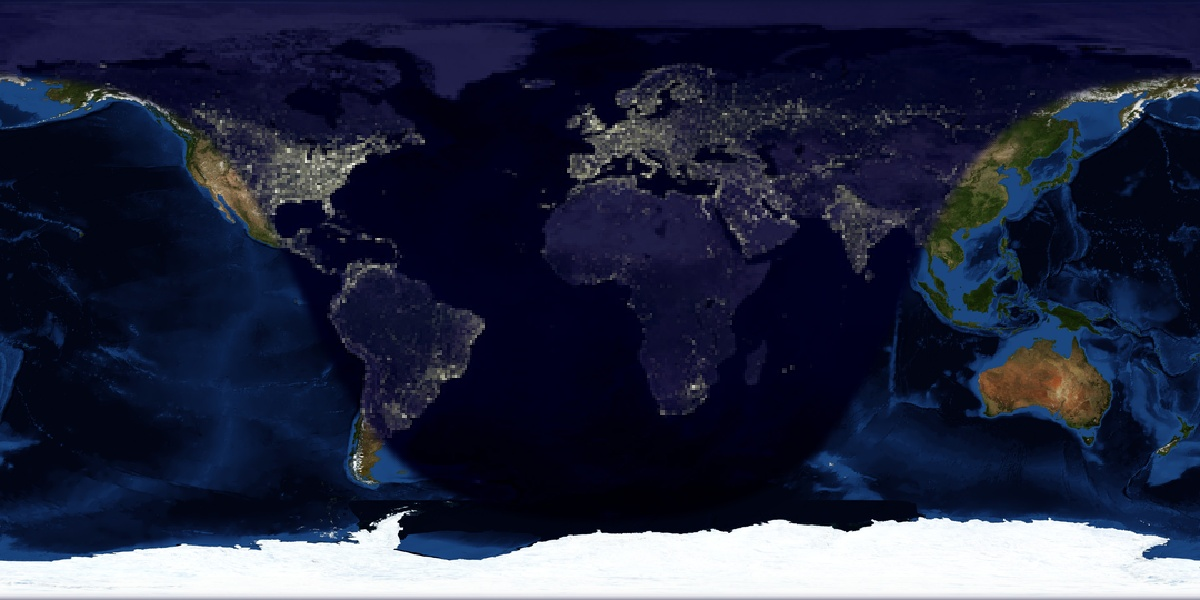
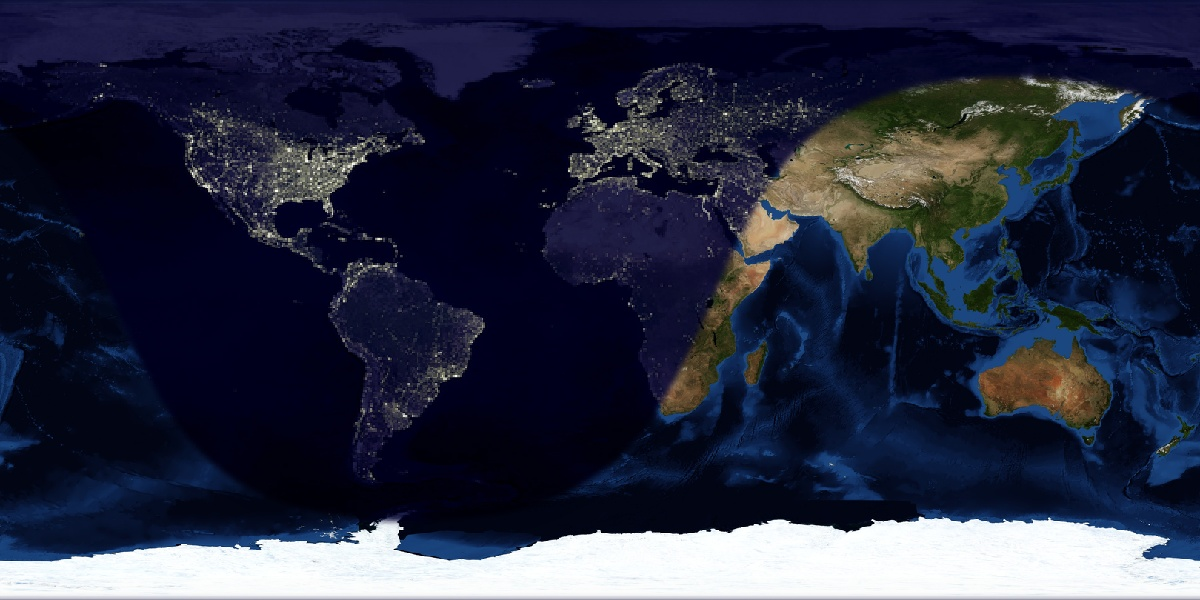
Adding GSFC TDRS Stuff!

diff --git a/Pi/GUI.py b/Pi/GUI.py
@@ -1072,7 +1072,13 @@ class Settings_Screen(Screen, EventDispatcher):
     pass
 
 class Orbit_Screen(Screen, EventDispatcher):
-    pass
+    signalcolor = ObjectProperty([1, 1, 1])
+
+class Orbit_Pass(Screen, EventDispatcher):
+    signalcolor = ObjectProperty([1, 1, 1])
+
+class Orbit_Data(Screen, EventDispatcher):
+    signalcolor = ObjectProperty([1, 1, 1])
 
 class ISS_Screen(Screen, EventDispatcher):
     signalcolor = ObjectProperty([1, 1, 1])
@@ -1165,6 +1171,8 @@ class MainApp(App):
         self.eclss_screen = ECLSS_Screen(name = 'eclss')
         self.control_screen = ManualControlScreen(name = 'manualcontrol')
         self.orbit_screen = Orbit_Screen(name = 'orbit')
+        self.orbit_pass = Orbit_Pass(name = 'orbit_pass')
+        self.orbit_data = Orbit_Data(name = 'orbit_data')
         self.fakeorbit_screen = FakeOrbitScreen(name = 'fakeorbit')
         self.eps_screen = EPS_Screen(name = 'eps')
         self.ct_screen = CT_Screen(name = 'ct')
@@ -1184,7 +1192,10 @@ class MainApp(App):
         self.eva_pictures = EVA_Pictures(name='eva_pictures')
 
         #Add all new telemetry screens to this list, this is used for the signal status icon and telemetry value colors
-        ScreenList = ['tcs_screen', 'eps_screen', 'iss_screen', 'eclss_screen', 'ct_screen', 'ct_sasa_screen', 'ct_sgant_screen', 'ct_uhf_screen', 'ct_camera_screen', 'gnc_screen', 'orbit_screen', 'us_eva', 'rs_eva', 'eva_main', 'mimic_screen', 'mss_mt_screen']
+        ScreenList = ['tcs_screen', 'eps_screen', 'iss_screen', 'eclss_screen', 
+                    'ct_screen', 'ct_sasa_screen', 'ct_sgant_screen', 'ct_uhf_screen', 
+                    'ct_camera_screen', 'gnc_screen', 'orbit_screen', 'us_eva', 'rs_eva', 
+                    'eva_main', 'mimic_screen', 'mss_mt_screen','orbit_pass','orbit_data']
 
         root = MainScreenManager(transition=SwapTransition())
         root.add_widget(self.main_screen)
@@ -1192,6 +1203,8 @@ class MainApp(App):
         root.add_widget(self.mimic_screen)
         root.add_widget(self.fakeorbit_screen)
         root.add_widget(self.orbit_screen)
+        root.add_widget(self.orbit_pass)
+        root.add_widget(self.orbit_data)
         root.add_widget(self.iss_screen)
         root.add_widget(self.eclss_screen)
         root.add_widget(self.eps_screen)
@@ -1222,7 +1235,7 @@ class MainApp(App):
         Clock.schedule_once(self.checkCrew, 30)
         Clock.schedule_once(self.checkBlogforEVA, 30)
         Clock.schedule_once(self.getTLE, 15) #uncomment when internet works again
-        Clock.schedule_once(self.TDRSupdate, 10) #uncomment when internet works again
+        Clock.schedule_once(self.TDRSupdate, 30) #uncomment when internet works again
         
         Clock.schedule_interval(self.getTLE, 300)
         Clock.schedule_interval(self.TDRSupdate, 600)
@@ -1230,7 +1243,7 @@ class MainApp(App):
         Clock.schedule_interval(self.check_serial, 1)
         
         #schedule the orbitmap to update with shadow every 5 mins
-        Clock.schedule_interval(self.updateNightShade, 30)
+        Clock.schedule_interval(self.updateNightShade, 120)
         Clock.schedule_interval(self.updateOrbitMap, 10)
         return root
 
@@ -1871,8 +1884,8 @@ class MainApp(App):
             normalizedY = self.orbit_screen.ids.OrbitMap.norm_image_size[1] / self.orbit_screen.ids.OrbitMap.texture_size[1]
 
             self.orbit_screen.ids.OrbitISStiny.pos = (
-                    scaleLatLon2(latitude, longitude)['new_x'] - ((self.orbit_screen.ids.OrbitISStiny.width / 2) * normalizedX * 3.6), #had to fudge a little not sure why
-                    scaleLatLon2(latitude, longitude)['new_y'] - ((self.orbit_screen.ids.OrbitISStiny.height / 2) * normalizedY * 3.3)) #had to fudge a little not sure why
+                    scaleLatLon2(latitude, longitude)['new_x'] - ((self.orbit_screen.ids.OrbitISStiny.width / 2) * normalizedX * 2), #had to fudge a little not sure why
+                    scaleLatLon2(latitude, longitude)['new_y'] - ((self.orbit_screen.ids.OrbitISStiny.height / 2) * normalizedY * 2)) #had to fudge a little not sure why
 
             ISS_groundtrack = []
             ISS_groundtrack2 = []
@@ -1896,11 +1909,11 @@ class MainApp(App):
                 date_i += timedelta(seconds=60)
 
             self.orbit_screen.ids.ISSgroundtrack.width = 1
-            self.orbit_screen.ids.ISSgroundtrack.col = (1, 1, 0, 1)
+            self.orbit_screen.ids.ISSgroundtrack.col = (1, 0, 0, 1)
             self.orbit_screen.ids.ISSgroundtrack.points = ISS_groundtrack
 
             self.orbit_screen.ids.ISSgroundtrack2.width = 1
-            self.orbit_screen.ids.ISSgroundtrack2.col = (1, 1, 0, 1)
+            self.orbit_screen.ids.ISSgroundtrack2.col = (1, 0, 0, 1)
             self.orbit_screen.ids.ISSgroundtrack2.points = ISS_groundtrack2
 
             self.orbit_screen.ids.latitude.text = str("{:.2f}".format(latitude))
@@ -2060,6 +2073,8 @@ class MainApp(App):
                 sun.compute(location)
                 ISS_TLE.compute(location)
                 sun_alt = float(str(sun.alt).split(':')[0]) + float(str(sun.alt).split(':')[1])/60 + float(str(sun.alt).split(':')[2])/3600
+                print(ISS_TLE.eclipsed)
+                print(sun_alt)
                 visible = False
                 if ISS_TLE.eclipsed is False and -18 < sun_alt < -6:
                     visible = True
@@ -3317,6 +3332,8 @@ class MainApp(App):
 Builder.load_file('/home/pi/Mimic/Pi/Screens/Settings_Screen.kv')
 Builder.load_file('/home/pi/Mimic/Pi/Screens/FakeOrbitScreen.kv')
 Builder.load_file('/home/pi/Mimic/Pi/Screens/Orbit_Screen.kv')
+Builder.load_file('/home/pi/Mimic/Pi/Screens/Orbit_Pass.kv')
+Builder.load_file('/home/pi/Mimic/Pi/Screens/Orbit_Data.kv')
 Builder.load_file('/home/pi/Mimic/Pi/Screens/ISS_Screen.kv')
 Builder.load_file('/home/pi/Mimic/Pi/Screens/ECLSS_Screen.kv')
 Builder.load_file('/home/pi/Mimic/Pi/Screens/EPS_Screen.kv')
@@ -3346,6 +3363,8 @@ ScreenManager:
     Settings_Screen:
     FakeOrbitScreen:
     Orbit_Screen:
+    Orbit_Pass:
+    Orbit_Data:
     EPS_Screen:
     CT_Screen:
     CT_SASA_Screen:

diff --git a/Pi/teststuff/tdrstest.py b/Pi/teststuff/tdrstest.py
@@ -1,6 +1,7 @@
 from os import environ
 from twisted.internet.defer import inlineCallbacks
 from autobahn.twisted.wamp import ApplicationSession, ApplicationRunner
+import json
 # or: from autobahn.asyncio.wamp import ApplicationSession
 
 
@@ -10,19 +11,49 @@ class Component(ApplicationSession):
         # listening for the corresponding message from the "backend"
         # (any session that .publish()es to this topic).
         def onevent(msg):
-            print("Got event: {}".format(msg))
-        yield self.subscribe(onevent, u'com.myapp.hello')
+            #print(json.loads(str(msg)))
+            #print(json.dumps(msg))
+            try:
+                msg['TDRS-12']['connected']['ISS']
+            except Exception:
+                print('Not connected to TDRS-12')
+            else:
+                print('TDRS-12 success')
+            
+            try:
+                msg['TDRS-11']['connected']['ISS']
+            except Exception:
+                print('Not connected to TDRS-11')
+            else:
+                print('TDRS-11 success')
 
-        # call a remote procedure.
-        res = yield self.call(u'com.myapp.add2', 2, 3)
-        print("Got result: {}".format(res))
+            try:
+                msg['TDRS-10']['connected']['ISS']
+            except Exception:
+                print('Not connected to TDRS-10')
+            else:
+                print('TDRS-10 success')
 
+            try:
+                msg['TDRS-6']['connected']['ISS']
+            except Exception:
+                print('Not connected to TDRS-6')
+            else:
+                print('TDRS-6 success')
+            
+            try:
+                msg['TDRS-7']['connected']['ISS']
+            except Exception:
+                print('Not connected to TDRS-7')
+            else:
+                print('TDRS-7 success')
+        yield self.subscribe(onevent, u'gov.nasa.gsfc.scan_now.sn.activity')
 
 if __name__ == '__main__':
     import six
-    url = environ.get("AUTOBAHN_DEMO_ROUTER", u"ws://127.0.0.1:8080/ws")
+    url = environ.get("AUTOBAHN_DEMO_ROUTER", u"wss://scan-now.gsfc.nasa.gov/messages")
     if six.PY2 and type(url) == six.binary_type:
         url = url.decode('utf8')
-    realm = u"crossbardemo"
+    realm = u"sn_now"
     runner = ApplicationRunner(url, realm)
 runner.run(Component)

diff --git a/Pi/NightShade.py b/Pi/NightShade.py
@@ -68,4 +68,4 @@ def bluemarble_daynight(date,scale):
     plt.savefig('/home/pi/Mimic/Pi/imgs/orbit/map.jpg', bbox_inches='tight', pad_inches=0)
 
 date = datetime.utcnow()
-bluemarble_daynight(date,0.2)
+bluemarble_daynight(date,0.3)
